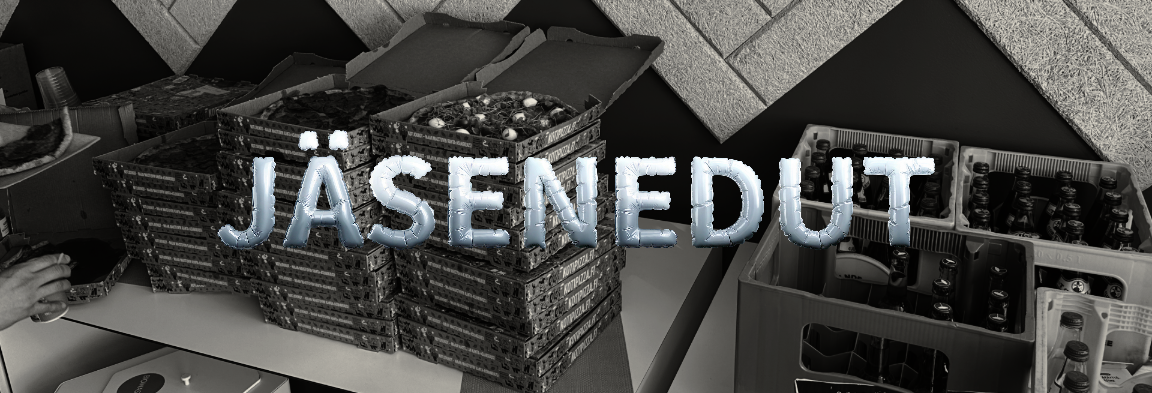
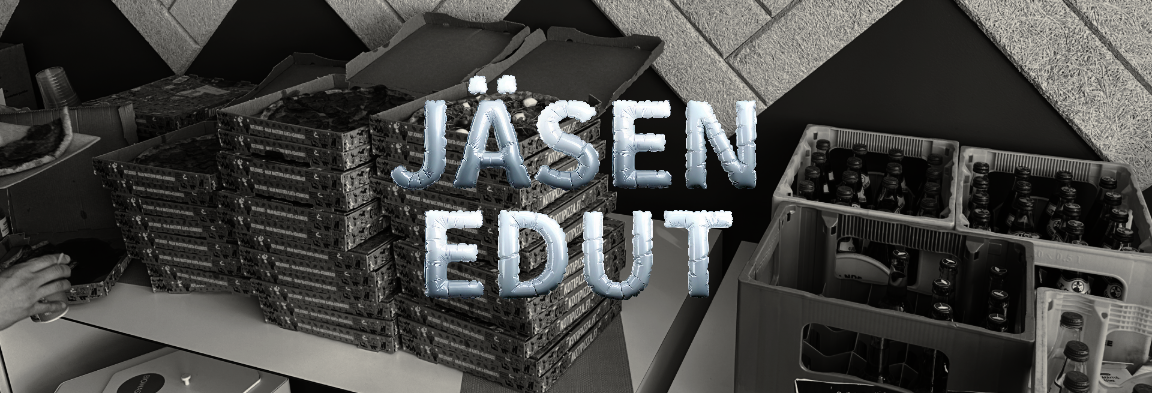
fix(posts): minor responsivity fixes to featured image

Changed region(s): [[0.1875, 0.1832, 0.8125, 0.7634]]

diff --git a/app/syslog/[slug]/style.module.scss b/app/syslog/[slug]/style.module.scss
@@ -7,7 +7,11 @@
     position: relative;
     height: 350px;
     border-radius: 0.5rem;
-    margin: 1rem 0;
+    margin-top: -1rem;
+    margin-bottom: 1rem;
+    @media only screen and (max-width: 800px) {
+        height: 250px !important;
+    }
     @media print {
         margin: -1rem 0 1rem 0
     }
